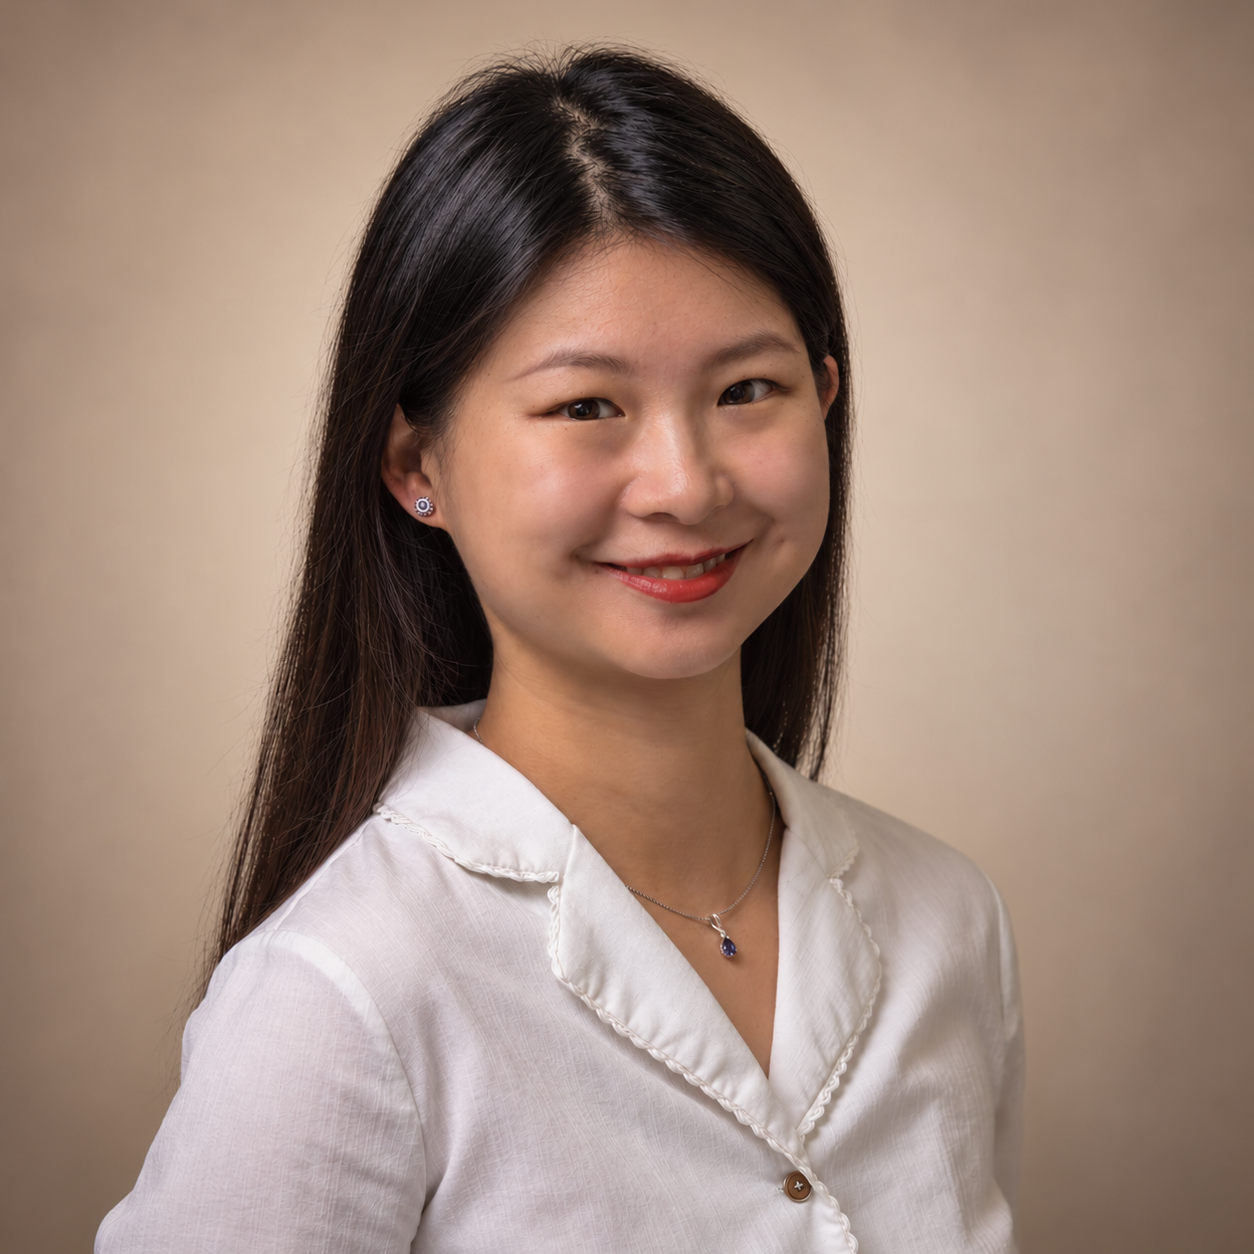
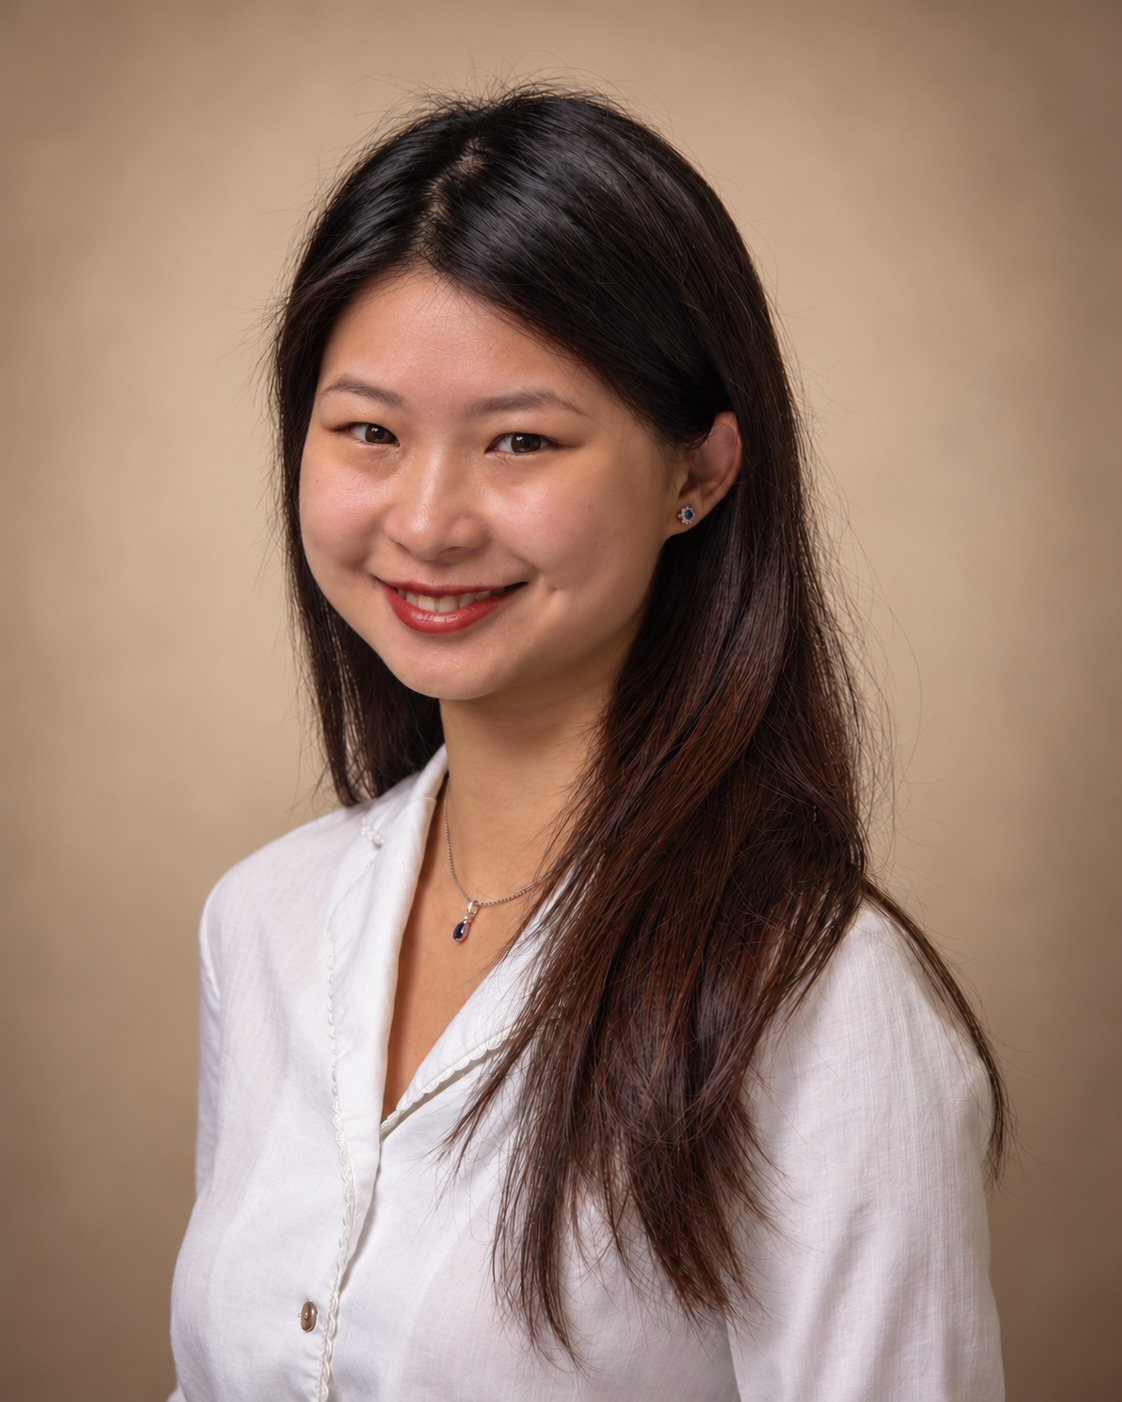
Replace home page portrait

diff --git a/index.html b/index.html
@@ -31,7 +31,7 @@
     </header>
     <div class="layout">
       <aside aria-label="Candidate information">
-        <img class="portrait" src="luying-yang.png" alt="Portrait of Luying Yang" width="225" height="225" fetchpriority="high">
+        <img class="portrait" src="luying-yang.png?v=20261013" alt="Portrait of Luying Yang" width="1122" height="1402" fetchpriority="high">
         <h1>Luying Yang</h1>
         <p class="role">PhD Candidate in Economics</p>
         <p>University of Maryland</p>
